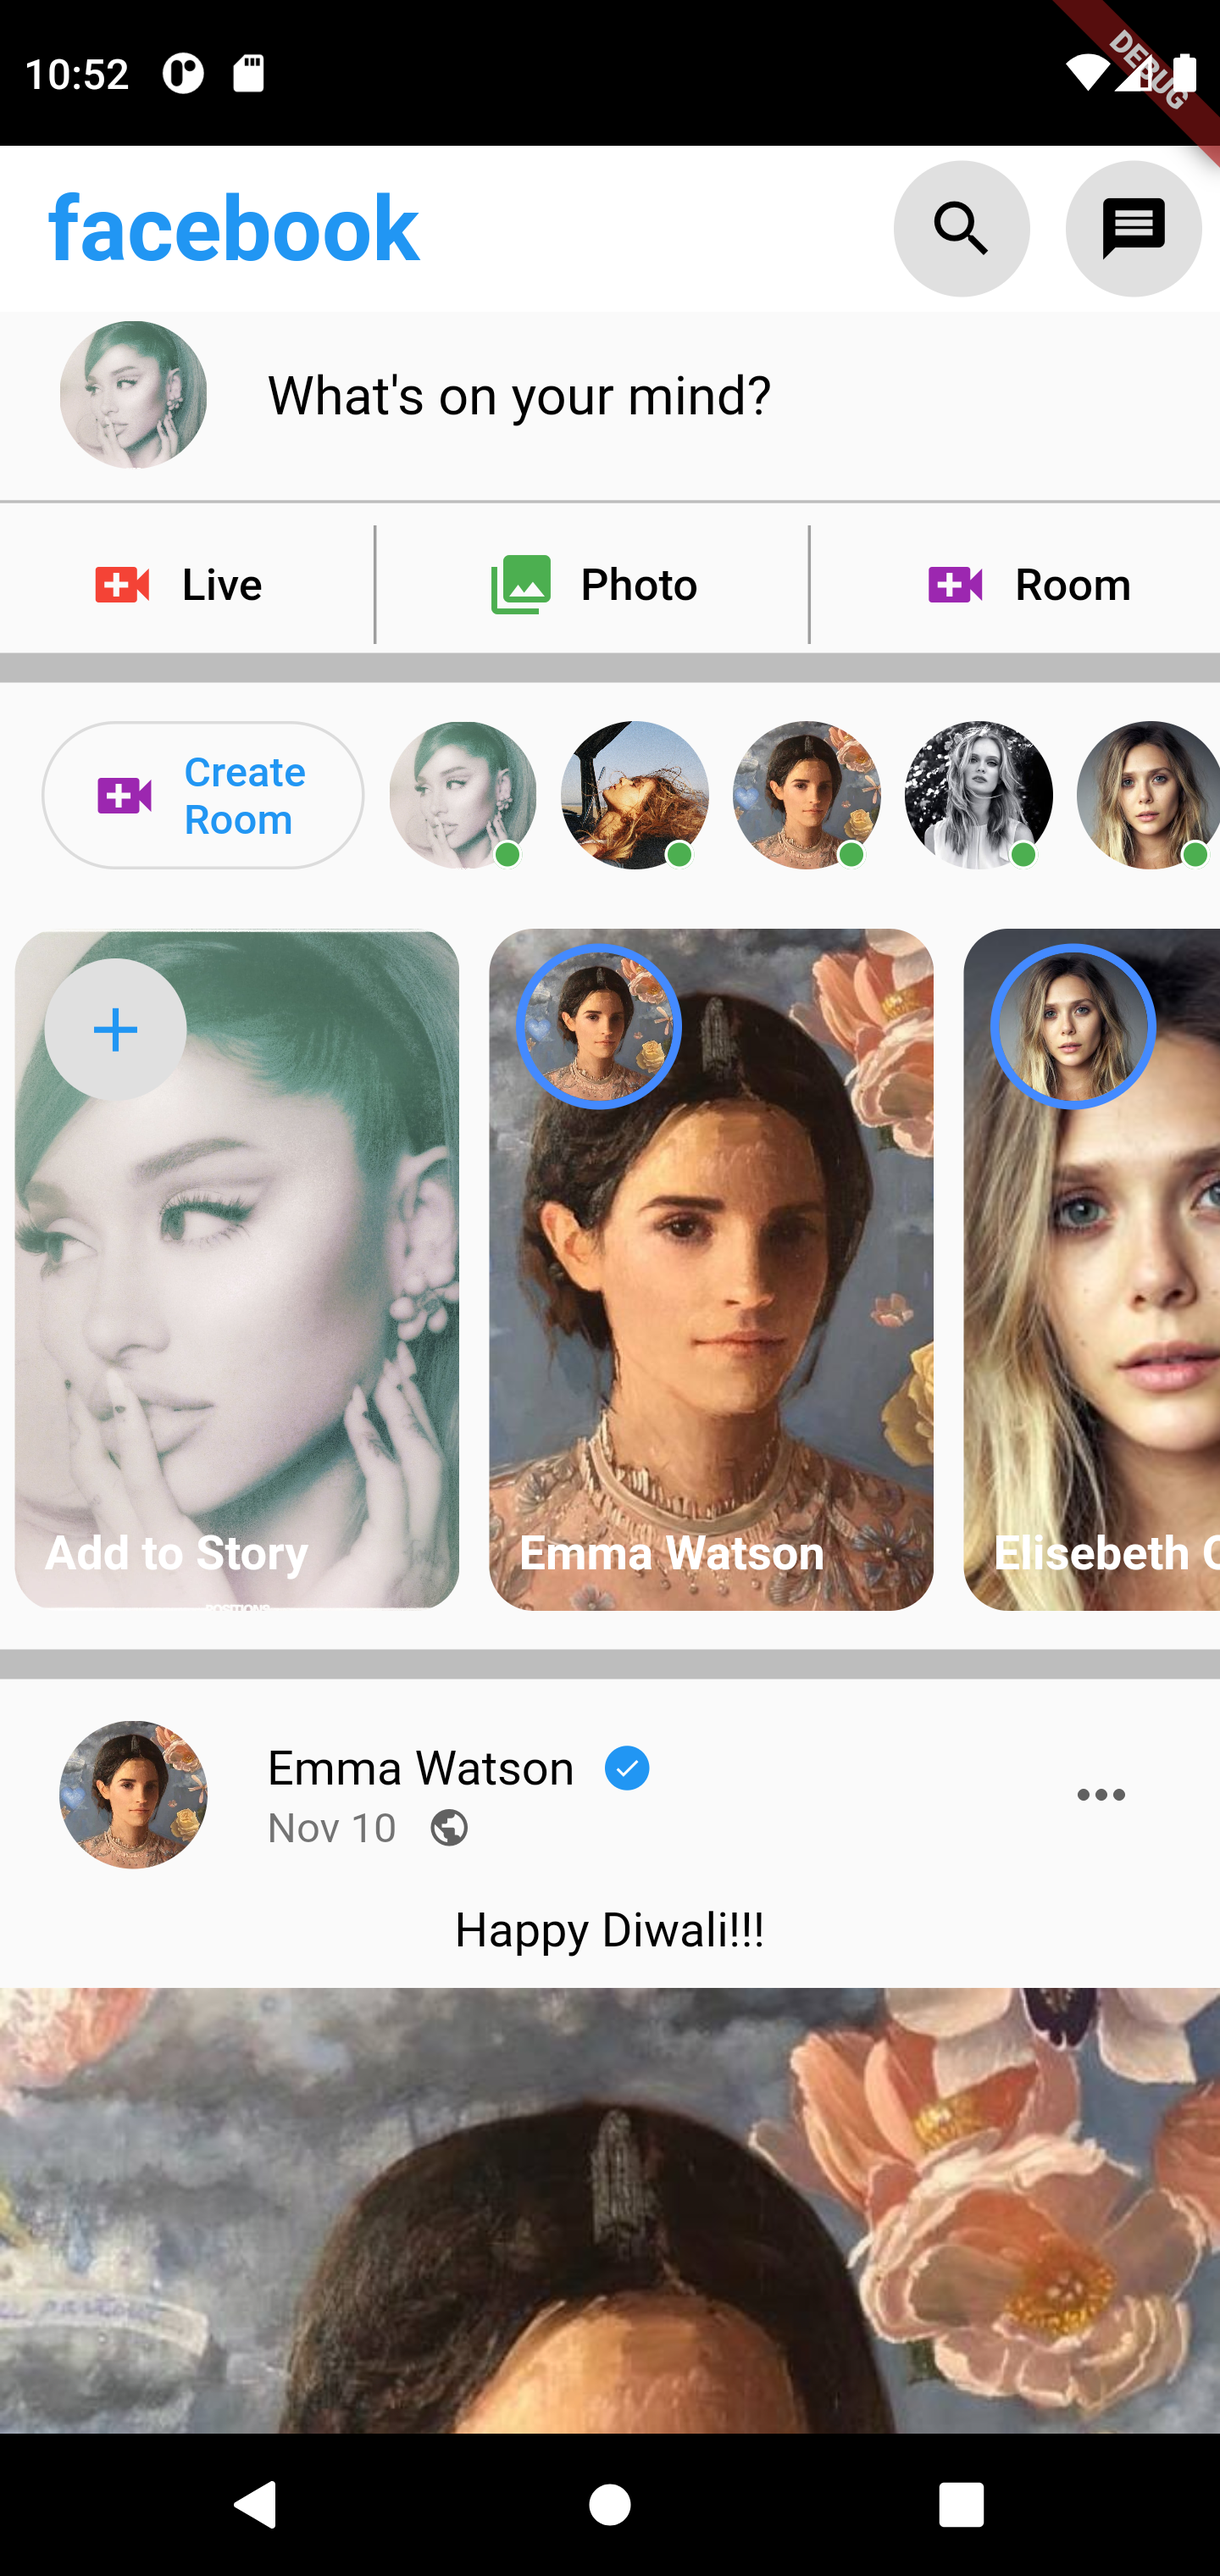
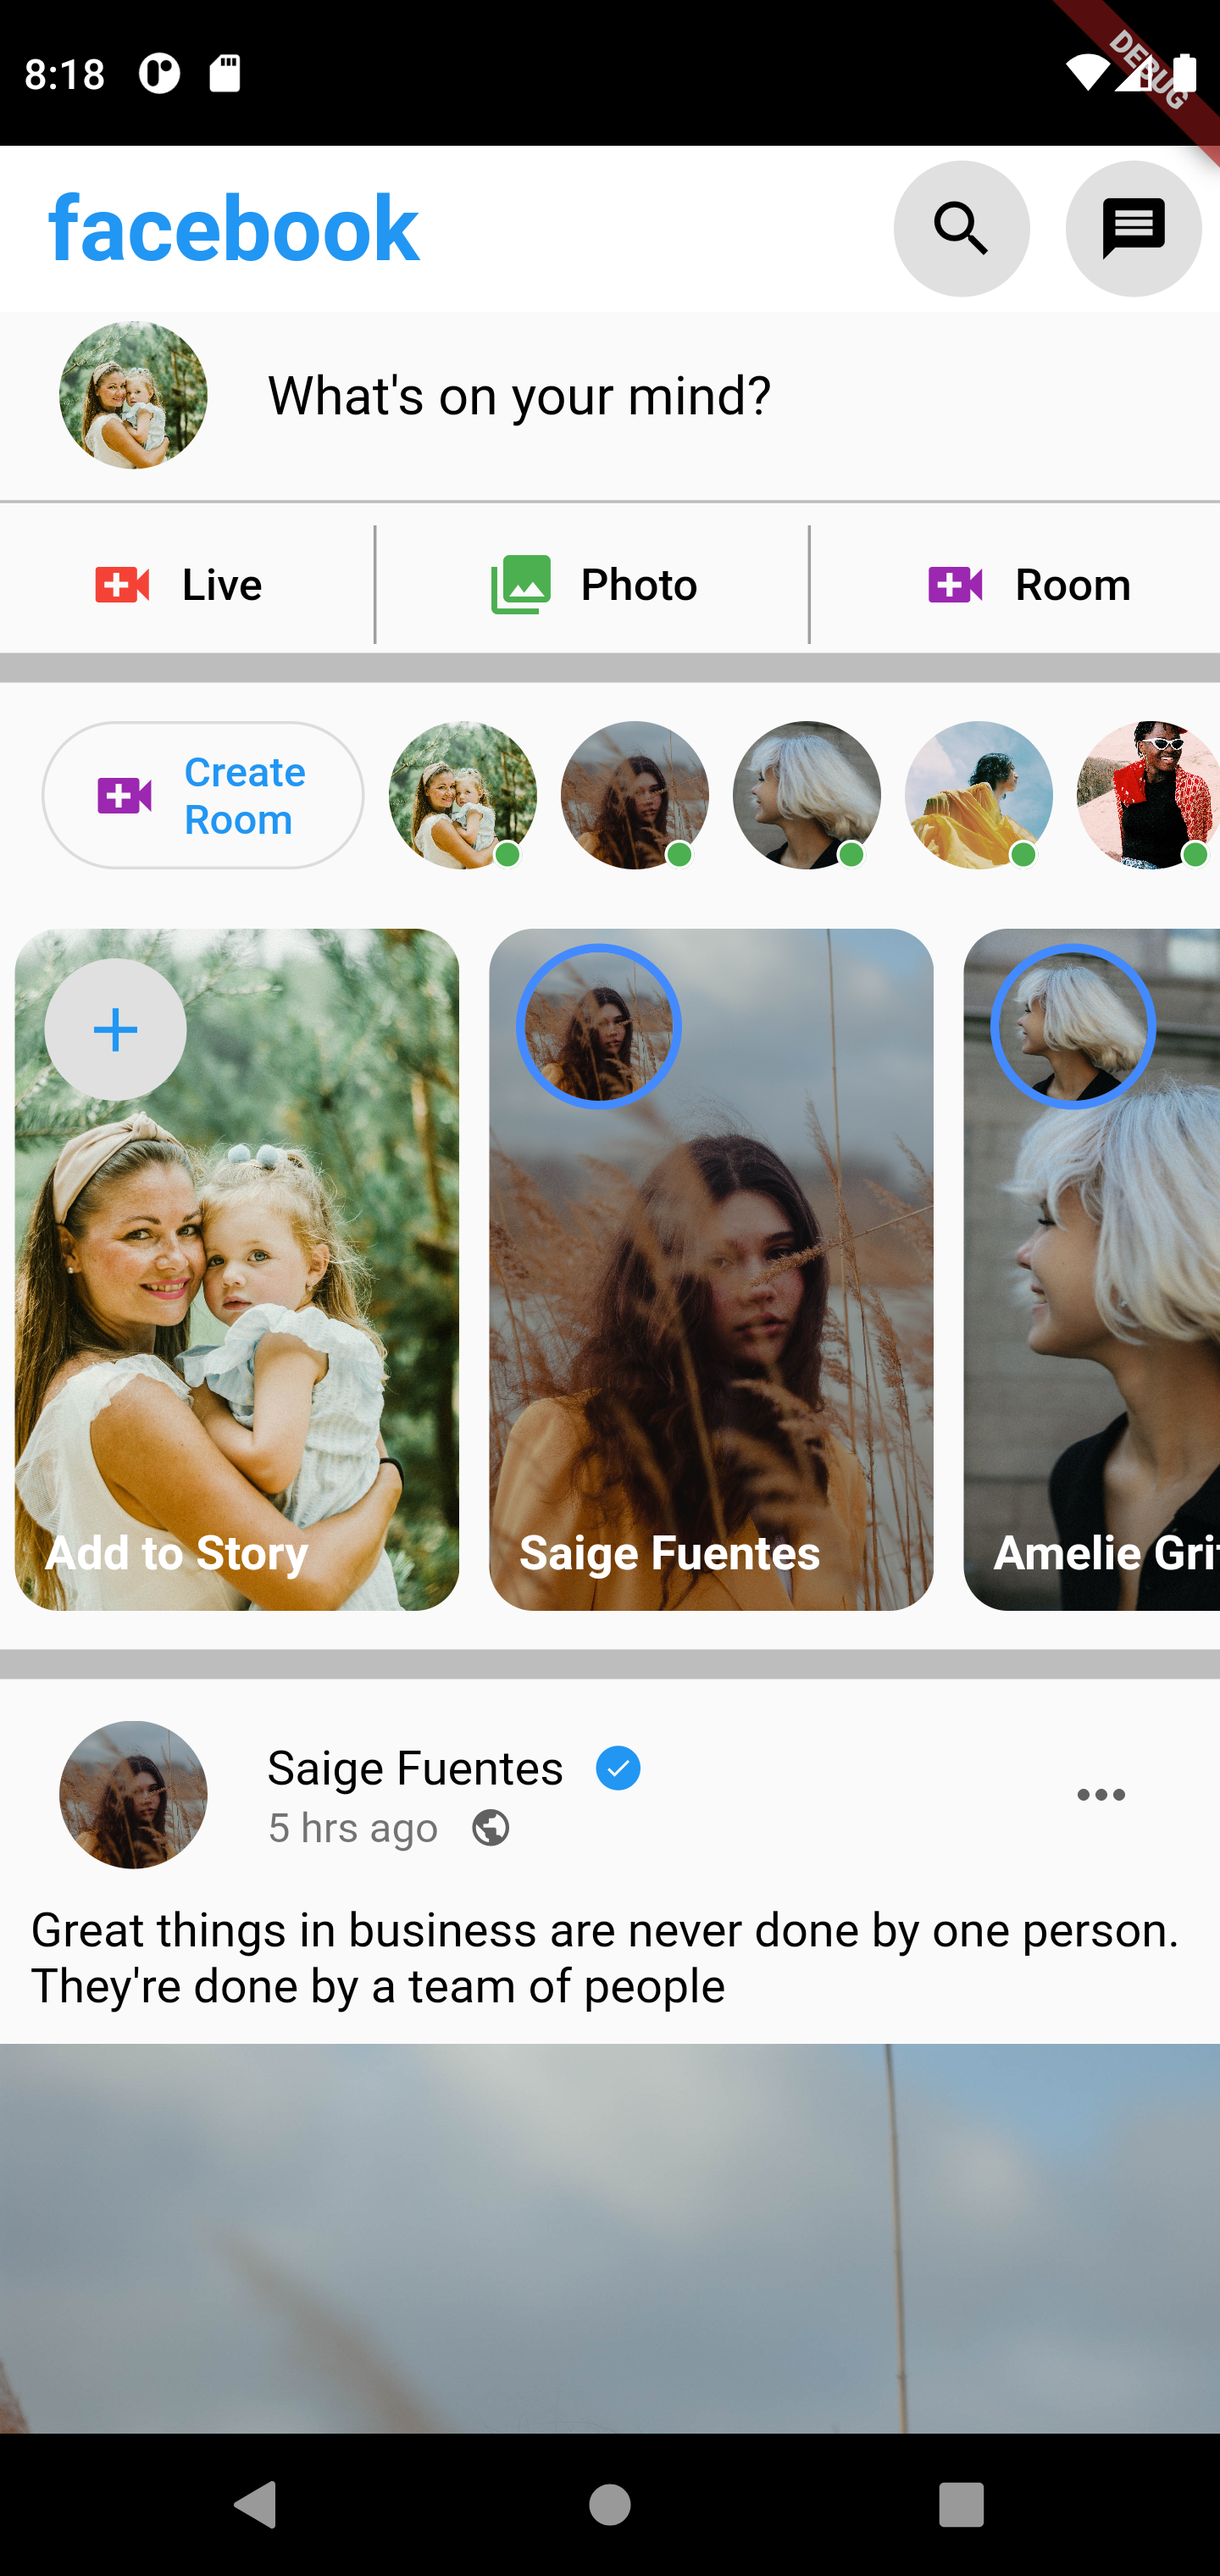
updated

diff --git a/lib/app.dart b/lib/app.dart
@@ -47,11 +47,11 @@ class MyApp extends StatelessWidget {
               Storysestion(),
               dividerMethord(10),
               PostCard(
-                avatar: emma,
+                avatar: image2,
                 publishedAt: '5 hrs ago',
                 profilename: "Saige Fuentes",
                 posttitle: "Great things in business are never done by one person. They're done by a team of people",
-                postimage: emma,
+                postimage: image2,
                 showBlueTick: true,
                 likecount: "10K",
                 sharecount: '1K',
@@ -61,20 +61,21 @@ class MyApp extends StatelessWidget {
               PostCard(
                 posttitle: "",
                 publishedAt: '10 days ago',
-                avatar: alba,
+                avatar: image3,
                 profilename: "Amelie Griffith",
-                postimage: alba,
+                postimage: image3,
                 likecount: '20K',
                 sharecount: '2K',
                 commentcount: '600',
                 showBlueTick: true,
               ),
+              dividerMethord(10),
               PostCard(
-                avatar: haile,
+                avatar: image4,
                 publishedAt: '1 week',
                 profilename: "Leighton Kramer",
                 posttitle: "I don't believe that if you do good, good things will happen",
-                postimage: haile,
+                postimage: image4,
                 showBlueTick: true,
                 likecount: "10K",
                 sharecount: '1K',
@@ -82,11 +83,11 @@ class MyApp extends StatelessWidget {
               ),
               dividerMethord(10),
               PostCard(
-                avatar: paxton,
+                avatar: image5,
                 publishedAt: 'Nov 10',
                 profilename: "Kylan Gentry",
                 posttitle: 'Together we can change the world, just one random act of kindness at a time',
-                postimage: paxton,
+                postimage: image5,
                 showBlueTick: true,
                 likecount: "10K",
                 sharecount: '1K',
@@ -94,11 +95,11 @@ class MyApp extends StatelessWidget {
               ),
               dividerMethord(10),
               PostCard(
-                avatar: oslen,
+                avatar: image6,
                 publishedAt: 'Nov 10',
                 profilename: "Bowen Higgins",
                 posttitle: 'Everything happening around me is very random. I am enjoying the phase, as the journey is far more enjoyable than the destination',
-                postimage: oslen,
+                postimage: image6,
                 showBlueTick: true,
                 likecount: "10K",
                 sharecount: '1K',

diff --git a/lib/sections/storysesction.dart b/lib/sections/storysesction.dart
@@ -18,15 +18,15 @@ class Storysestion extends StatelessWidget {
       child: ListView(
         scrollDirection: Axis.horizontal,
         children: [
-          StoryWidget(storyavatar: ariana, strorylabel: 'Add to Story', storyimage: ariana,createStoryIcon: true,),
-          StoryWidget(storyavatar: emma, strorylabel: 'Saige Fuentes', storyimage: emma,createStoryIcon: false,),
-          StoryWidget(storyavatar: oslen, strorylabel: 'Bowen Higgins', storyimage: oslen,createStoryIcon: false,),
-          StoryWidget(storyavatar: haile, strorylabel: 'Leighton Kramer', storyimage: haile,createStoryIcon: false,),
-          StoryWidget(storyavatar: paxton, strorylabel: 'Kylan Gentry', storyimage: paxton,createStoryIcon: false,),
-          StoryWidget(storyavatar: emma, strorylabel: 'Amelie Griffith', storyimage: alba,createStoryIcon: false,),
-          StoryWidget(storyavatar: oslen, strorylabel: 'Franklin Sierra', storyimage: image7,createStoryIcon: false,),
-          StoryWidget(storyavatar: haile, strorylabel: 'Marceline Avila', storyimage: image8,createStoryIcon: false,),
-          StoryWidget(storyavatar: paxton, strorylabel: 'Jaylen Blackwell', storyimage: image9,createStoryIcon: false,),
+          StoryWidget(storyavatar: image1, strorylabel: 'Add to Story', storyimage: image1,createStoryIcon: true,),
+          StoryWidget(storyavatar: image2, strorylabel: 'Saige Fuentes', storyimage: image2,createStoryIcon: false,),
+          StoryWidget(storyavatar: image3, strorylabel: 'Amelie Griffith', storyimage: image3,createStoryIcon: false,),
+          StoryWidget(storyavatar: image4, strorylabel: 'Leighton Kramer', storyimage: image4,createStoryIcon: false,),
+          StoryWidget(storyavatar: image5, strorylabel: 'Kylan Gentry', storyimage: image5,createStoryIcon: false,),
+          StoryWidget(storyavatar: image6, strorylabel: 'Bowen Higgins', storyimage: image6,createStoryIcon: false,),
+          StoryWidget(storyavatar: image7, strorylabel: 'Franklin Sierra', storyimage: image7,createStoryIcon: false,),
+          StoryWidget(storyavatar: image8, strorylabel: 'Marceline Avila', storyimage: image8,createStoryIcon: false,),
+          StoryWidget(storyavatar: image9, strorylabel: 'Jaylen Blackwell', storyimage: image9,createStoryIcon: false,),
         ],
       ),
     );

diff --git a/lib/widgets/roomsection.dart b/lib/widgets/roomsection.dart
@@ -30,27 +30,27 @@ class RoomsectionWidget extends StatelessWidget {
                 label: Text("Create \nRoom")),
           ),
           AvatarWidget(
-            displayimage: ariana,
+            displayimage: image1,
             displaystatus: true,
           ),
           AvatarWidget(
-            displayimage: haile,
+            displayimage: image2,
             displaystatus: true,
           ),
           AvatarWidget(
-            displayimage: emma,
+            displayimage: image3,
             displaystatus: true,
           ),
           AvatarWidget(
-            displayimage: paxton,
+            displayimage: image4,
             displaystatus: true,
           ),
           AvatarWidget(
-            displayimage: oslen,
+            displayimage: image5,
             displaystatus: true,
           ),
           AvatarWidget(
-            displayimage: alba,
+            displayimage: image6,
             displaystatus: true,
           ),
           AvatarWidget(

diff --git a/lib/assests.dart b/lib/assests.dart
@@ -1,9 +1,9 @@
-String ariana = "assests/profile.jpg";
-String haile = "assests/profile2.jpg";
-String alba = "assests/profile3.jpg";
-String emma = "assests/profile4.jpg";
-String paxton = "assests/profile5.jpg";
-String oslen = "assests/profile6.jpg";
+String image1 = "assests/profile.jpg";
+String image2 = "assests/profile2.jpg";
+String image3 = "assests/profile3.jpg";
+String image4 = "assests/profile4.jpg";
+String image5 = "assests/profile5.jpg";
+String image6 = "assests/profile6.jpg";
 String image7 = "assests/profile7.jpg";
 String image8 = "assests/profile8.jpg";
 String image9 = "assests/profile9.jpg";

diff --git a/lib/sections/statussection.dart b/lib/sections/statussection.dart
@@ -11,7 +11,7 @@ class StatusSection extends StatelessWidget {
   @override
   Widget build(BuildContext context) {
     return ListTile(
-      leading: AvatarWidget(displayimage: ariana,),
+      leading: AvatarWidget(displayimage: image1,),
       title: TextField(
         decoration: InputDecoration(
           enabledBorder: InputBorder.none,
